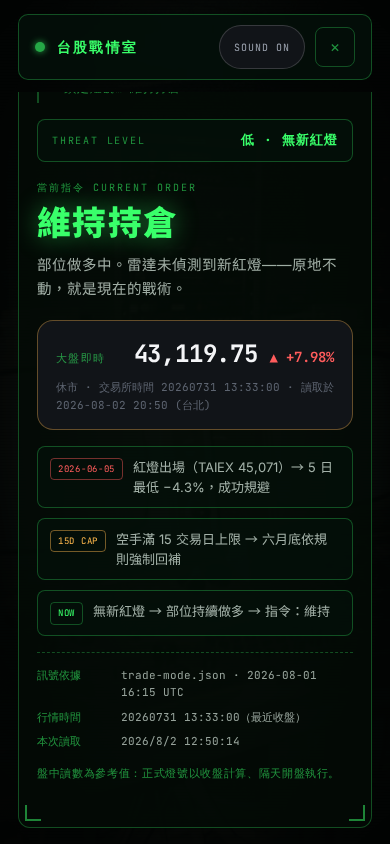
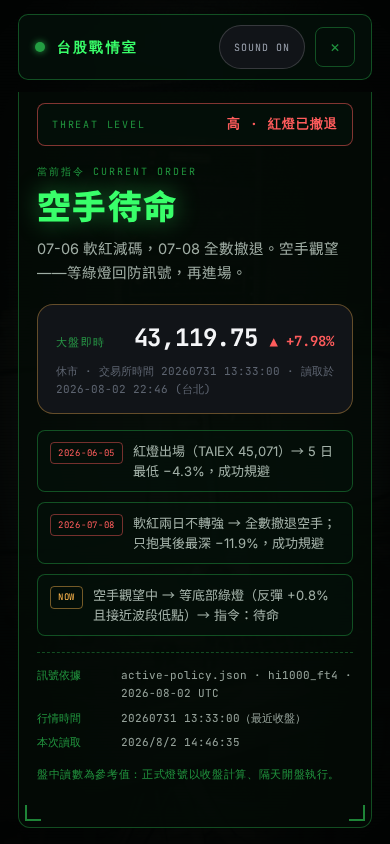
Install champion hi1000_ft4 (OOS +23.6%): new verdict CASH since 2026-07-08
VERIFIED BEFORE INSTALL: ran package's scripts/ship-hi1000-champ.mts from the
champion handoff — reproduced exactly: meanOos 23.57, folds [23.73, 0, 12.16, 58.4],
full +957% vs +351% (ex +605, dd -12.7), post +334% vs +203% (ex +131, dd -8.0).
(Fixed pkg's hardcoded /workspace cache path + stubbed react-start marker to run it.)

Site updates:
- Numbers everywhere: OOS 16.8->23.6, post-2023 excess 78->131 (+281->+334 vs +203),
  2019 excess 544->605 (+895->+957 vs +351), maxDD -12->-13, 2024 pain card -> post-2023
  BH -29, folds [25.6,0,10.1,31.5]->[23.7,0,12.2,58.4], equity chart endpoint 895->957
- VERDICT CHANGED: HOLD POSITION (維持持倉) -> STAND BY IN CASH (空手待命).
  New champion exited: soft red 2026-07-06 (trim to 40%) -> full cash 2026-07-08;
  B&H fell up to -11.9% since. Threat level low->high (red styling added)
- Radar: 9 contacts (added 07-06 amber soft-red + 07-08 red full-retreat; amber blip color)
- Timeline: +2026-07-08 full retreat entry; 2025-02-26 item now describes soft-exit flow
- Intel trail: removed obsolete 15D-cash-cap mechanic (not in hi1000_ft4 policy);
  NOW item = awaiting bottom green (ret1Min 0.8, ret5Max -3.5, minCashDays 3)
- Provenance: trade-mode.json 2026-08-01 -> active-policy.json · hi1000_ft4 · 2026-08-02
- Scan log line 4 -> 空手待命; E2E assertions updated to new order + provenance
- Suite: 191/191 green (98 lint + 42 unit + 16 API + 35 E2E)

diff --git a/src/index.tsx b/src/index.tsx
@@ -14,7 +14,7 @@ const Head = () => (
     <title>台股戰情室 TWSE warroom — 台股波段指令 | TAIEX wave orders</title>
     <meta
       name="description"
-      content="紅燈撤退、綠燈回防，隔天開盤執行。Walk-forward 樣本外 +16.8%，最大回落 −12% vs 只抱 −29%。台股波段戰情室，戰績全公開。"
+      content="紅燈撤退、綠燈回防，隔天開盤執行。Walk-forward 樣本外 +23.6%，最大回落 −13% vs 只抱 −32%。台股波段戰情室，戰績全公開。"
     />
     <meta name="theme-color" content="#08090b" />
     <link
@@ -218,7 +218,7 @@ app.get('/', (c) => {
                     </span>
                   </div>
                   <div class="chart-legend mono">
-                    <span class="lg lg-st"><i />TWSE warroom <b id="legend-st">+895%</b></span>
+                    <span class="lg lg-st"><i />TWSE warroom <b id="legend-st">+957%</b></span>
                     <span class="lg lg-bh"><i /><span class="zh">只抱</span><span class="en">B&amp;H</span> <b id="legend-bh">+351%</b></span>
                   </div>
                 </div>
@@ -237,8 +237,8 @@ app.get('/', (c) => {
                   <span class="marquee-seq">
                     <em class="m-r">RED = EXIT NEXT OPEN</em><i>◆</i>
                     <em class="m-g">GREEN = RE-ENTER NEAR LOWS</em><i>◆</i>
-                    <em>WALK-FORWARD OOS +16.8%</em><i>◆</i>
-                    <em class="m-a">MAX DD −12% vs −29%</em><i>◆</i>
+                    <em>WALK-FORWARD OOS +23.6%</em><i>◆</i>
+                    <em class="m-a">MAX DD −13% vs −32%</em><i>◆</i>
                     <em>INTEL, NOT PROPHECY</em><i>◆</i>
                   </span>
                 ))}
@@ -261,8 +261,8 @@ app.get('/', (c) => {
               <div class="pain-grid">
                 <div class="pain-card reveal d2">
                   <span class="pain-num mono">−29%</span>
-                  <p><span class="zh">2024 年只抱者的最大回落。抱得很緊，跌得很深。</span>
-                     <span class="en">Max drawdown for buy-and-holders in 2024. Held tight, fell hard.</span></p>
+                  <p><span class="zh">2023 之後只抱者的最大回落。抱得很緊，跌得很深。</span>
+                     <span class="en">Max drawdown for buy-and-holders post-2023. Held tight, fell hard.</span></p>
                 </div>
                 <div class="pain-card reveal d3">
                   <span class="pain-num mono">−32%</span>
@@ -270,9 +270,9 @@ app.get('/', (c) => {
                      <span class="en">Max drawdown for buy &amp; hold since 2019. Time is your friend; waves are not.</span></p>
                 </div>
                 <div class="pain-card reveal d4">
-                  <span class="pain-num mono accent-g">−12%</span>
+                  <span class="pain-num mono accent-g">−13%</span>
                   <p><span class="zh">同一期間戰情室策略的最大回落。躲過的跌，就是賺到的。</span>
-                     <span class="en">Max drawdown for the signal strategy over the same period. Dodged drops are earned returns.</span></p>
+                     <span class="en">Max drawdown for the warroom strategy over the same period. Dodged drops are earned returns.</span></p>
                 </div>
               </div>
             </div>
@@ -342,16 +342,16 @@ app.get('/', (c) => {
               {/* big stat row */}
               <div class="stat-row reveal d3">
                 <div class="stat">
-                  <span class="stat-num mono" data-count="16.8" data-suffix="%">0%</span>
+                  <span class="stat-num mono" data-count="23.6" data-suffix="%">0%</span>
                   <span class="stat-label"><span class="zh">樣本外平均超額（出廠門檻）</span><span class="en">Mean out-of-sample excess (ship gate)</span></span>
                 </div>
                 <div class="stat">
-                  <span class="stat-num mono" data-count="78" data-prefix="+" data-suffix="%">0</span>
-                  <span class="stat-label"><span class="zh">2023 後超額（+281% vs +203%）</span><span class="en">Post-2023 excess (+281% vs +203%)</span></span>
+                  <span class="stat-num mono" data-count="131" data-prefix="+" data-suffix="%">0</span>
+                  <span class="stat-label"><span class="zh">2023 後超額（+334% vs +203%）</span><span class="en">Post-2023 excess (+334% vs +203%)</span></span>
                 </div>
                 <div class="stat">
-                  <span class="stat-num mono" data-count="544" data-prefix="+" data-suffix="%">0</span>
-                  <span class="stat-label"><span class="zh">2019 至今超額（+895% vs +351%）</span><span class="en">Since-2019 excess (+895% vs +351%)</span></span>
+                  <span class="stat-num mono" data-count="605" data-prefix="+" data-suffix="%">0</span>
+                  <span class="stat-label"><span class="zh">2019 至今超額（+957% vs +351%）</span><span class="en">Since-2019 excess (+957% vs +351%)</span></span>
                 </div>
                 <div class="stat">
                   <span class="stat-num mono" data-count="100" data-suffix="%">0</span>
@@ -363,10 +363,10 @@ app.get('/', (c) => {
               <div class="folds reveal d4">
                 <p class="folds-title mono"><span class="zh">逐年樣本外超額（%）</span><span class="en">Out-of-sample excess by fold (%)</span></p>
                 <div class="fold-bars">
-                  <div class="fold"><span class="fold-val mono">+25.6</span><div class="fold-bar"><i style="--h:81%" /></div><span class="fold-yr mono">2022</span></div>
+                  <div class="fold"><span class="fold-val mono">+23.7</span><div class="fold-bar"><i style="--h:41%" /></div><span class="fold-yr mono">2022</span></div>
                   <div class="fold"><span class="fold-val mono">0.0</span><div class="fold-bar"><i class="flat" style="--h:3%" /></div><span class="fold-yr mono">2023</span></div>
-                  <div class="fold"><span class="fold-val mono">+10.1</span><div class="fold-bar"><i style="--h:32%" /></div><span class="fold-yr mono">2024</span></div>
-                  <div class="fold"><span class="fold-val mono">+31.5</span><div class="fold-bar"><i style="--h:100%" /></div><span class="fold-yr mono">2025+</span></div>
+                  <div class="fold"><span class="fold-val mono">+12.2</span><div class="fold-bar"><i style="--h:21%" /></div><span class="fold-yr mono">2024</span></div>
+                  <div class="fold"><span class="fold-val mono">+58.4</span><div class="fold-bar"><i style="--h:100%" /></div><span class="fold-yr mono">2025+</span></div>
                 </div>
                 <p class="fineprint mono">
                   <span class="zh">2023 打平只抱——我們把它留在榜上，因為誠實比好看重要。</span>
@@ -391,7 +391,7 @@ app.get('/', (c) => {
                   <li class="tl-item tl-r">
                     <span class="tl-date mono">2025-02-26</span>
                     <span class="tl-kind"><i class="dot dot-r" /><span class="zh">紅燈 · 出場</span><span class="en">RED · exit</span></span>
-                    <span class="tl-out"><span class="zh">之後 10 日 </span><span class="en">Next 10d </span><b class="neg">−6.2%</b> <span class="zh">· 躲過</span><span class="en">· dodged</span></span>
+                    <span class="tl-out"><span class="zh">軟紅減碼 → 03-04 全退；之後 10 日 </span><span class="en">Soft red trim → full exit 03-04; next 10d </span><b class="neg">−6.2%</b> <span class="zh">· 躲過</span><span class="en">· dodged</span></span>
                   </li>
                   <li class="tl-item tl-g">
                     <span class="tl-date mono">2025-04-10</span>
@@ -412,6 +412,11 @@ app.get('/', (c) => {
                     <span class="tl-date mono">2026-06-05</span>
                     <span class="tl-kind"><i class="dot dot-r" /><span class="zh">紅燈 · 出場</span><span class="en">RED · exit</span></span>
                     <span class="tl-out"><span class="zh">之後 5 日最低 </span><span class="en">Next 5d low </span><b class="neg">−4.3%</b> <span class="zh">· 躲過</span><span class="en">· dodged</span></span>
+                  </li>
+                  <li class="tl-item tl-r">
+                    <span class="tl-date mono">2026-07-08</span>
+                    <span class="tl-kind"><i class="dot dot-r" /><span class="zh">紅燈 · 全數撤退</span><span class="en">RED · full retreat</span></span>
+                    <span class="tl-out"><span class="zh">07-06 軟紅減碼 → 07-08 空手；只抱其後最深 </span><span class="en">Soft red 07-06 → cash 07-08; B&amp;H max drop since </span><b class="neg">−11.9%</b></span>
                   </li>
                 </ol>
               </div>
@@ -570,21 +575,21 @@ app.get('/', (c) => {
 
                 {/* verdict — id kept as desk-result so quote/provenance plumbing stays intact */}
                 <div class="wr-verdict" id="desk-result" hidden>
-                  <div class="wr-threat mono" id="wr-threat" data-level="low">
+                  <div class="wr-threat mono" id="wr-threat" data-level="high">
                     <span class="wr-threat-k">THREAT LEVEL</span>
                     <span class="wr-threat-v" id="wr-threat-v">
-                      <span class="zh">低 · 無新紅燈</span><span class="en">LOW · no new red</span>
+                      <span class="zh">高 · 紅燈已撤退</span><span class="en">HIGH · red exit done</span>
                     </span>
                   </div>
                   <p class="wr-order-sub mono">
                     <span class="zh">當前指令 CURRENT ORDER</span><span class="en">CURRENT ORDER</span>
                   </p>
                   <p class="wr-order">
-                    <span class="zh">維持持倉</span><span class="en">HOLD POSITION</span>
+                    <span class="zh">空手待命</span><span class="en">STAND BY IN CASH</span>
                   </p>
                   <p class="wr-order-detail">
-                    <span class="zh">部位做多中。雷達未偵測到新紅燈——原地不動，就是現在的戰術。</span>
-                    <span class="en">Position LONG. No new red contact on scope — holding position is the maneuver.</span>
+                    <span class="zh">07-06 軟紅減碼，07-08 全數撤退。空手觀望——等綠燈回防訊號，再進場。</span>
+                    <span class="en">Soft red trimmed on 07-06, full retreat to cash on 07-08. Standing by — next green re-entry signal brings us back in.</span>
                   </p>
 
                   {/* live quote strip — filled by JS from /api/market-now */}
@@ -609,17 +614,17 @@ app.get('/', (c) => {
                       </span>
                     </li>
                     <li>
-                      <span class="mono wr-intel-tag tag-amber">15D CAP</span>
+                      <span class="mono wr-intel-tag tag-red">2026-07-08</span>
                       <span class="wr-intel-txt">
-                        <span class="zh">空手滿 15 交易日上限 → 六月底依規則強制回補</span>
-                        <span class="en">15-trading-day cash cap hit → mandatory re-entry ~late June</span>
+                        <span class="zh">軟紅兩日不轉強 → 全數撤退空手；只抱其後最深 −11.9%，成功規避</span>
+                        <span class="en">Soft red stayed weak 2 sessions → full retreat to cash; B&amp;H fell up to −11.9% since, dodged</span>
                       </span>
                     </li>
                     <li>
-                      <span class="mono wr-intel-tag tag-green">NOW</span>
+                      <span class="mono wr-intel-tag tag-amber">NOW</span>
                       <span class="wr-intel-txt">
-                        <span class="zh">無新紅燈 → 部位持續做多 → 指令：維持</span>
-                        <span class="en">No new red → still long → order: HOLD</span>
+                        <span class="zh">空手觀望中 → 等底部綠燈（反彈 +0.8% 且接近波段低點）→ 指令：待命</span>
+                        <span class="en">In cash, scope sweeping → awaiting bottom green (+0.8% bounce near swing low) → order: STAND BY</span>
                       </span>
                     </li>
                   </ul>
@@ -628,7 +633,7 @@ app.get('/', (c) => {
                   <div class="desk-stamps mono">
                     <div class="ds-row">
                       <span class="ds-k"><span class="zh">訊號依據</span><span class="en">Signal basis</span></span>
-                      <span class="ds-v" id="ds-policy">trade-mode.json · 2026-08-01 16:15 UTC</span>
+                      <span class="ds-v" id="ds-policy">active-policy.json · hi1000_ft4 · 2026-08-02 UTC</span>
                     </div>
                     <div class="ds-row">
                       <span class="ds-k"><span class="zh">行情時間</span><span class="en">Quote as of</span></span>

diff --git a/public/static/warroom.js b/public/static/warroom.js
@@ -27,6 +27,8 @@
   var verdictEl = document.getElementById("desk-result");
 
   /* Real signal events → radar contacts (from data/champion-signal-dates.json, post-2023) */
+  /* New champion hi1000_ft4: same signal dates + July 2026 retreat pair.
+     07-06 soft red (size→0.4) plotted amber; 07-08 full retreat plotted red. */
   var EVENTS = [
     { date: "2024-07-18", kind: "red" },
     { date: "2024-09-06", kind: "green" },
@@ -35,6 +37,8 @@
     { date: "2026-03-04", kind: "red" },
     { date: "2026-03-10", kind: "green" },
     { date: "2026-06-05", kind: "red" },
+    { date: "2026-07-06", kind: "amber" },
+    { date: "2026-07-08", kind: "red" },
   ];
 
   var SWEEP_MS = 9000;          // idle sweep period
@@ -161,7 +165,7 @@
       if (inten <= 0.01) return;
       lit++;
       var p = R.polarToCartesian(cx, cy, radius * c.radius, c.bearing);
-      var col = c.kind === "red" ? "255,92,92" : "57,255,106";
+      var col = c.kind === "red" ? "255,92,92" : c.kind === "amber" ? "255,184,77" : "57,255,106";
       var sz = 3 + inten * 2.5;
       ctx.fillStyle = "rgba(" + col + "," + (0.25 + inten * 0.75).toFixed(3) + ")";
       ctx.beginPath(); ctx.arc(p.x, p.y, sz, 0, R.TAU); ctx.fill();
@@ -218,7 +222,7 @@
     { zh: "▸ 建立台股資料鏈路… OK", en: "▸ UPLINK TAIEX FEED… OK" },
     { zh: "▸ 運算壓力分數… 完成", en: "▸ PRESSURE SCORE… COMPUTED" },
     { zh: "▸ 比對波段低點閘門… 通過", en: "▸ SWING-LOW GATES… PASS" },
-    { zh: "▸ 鎖定燈號… 維持持倉", en: "▸ SIGNAL LOCK… HOLD POSITION" },
+    { zh: "▸ 鎖定燈號… 空手待命", en: "▸ SIGNAL LOCK… STAND BY IN CASH" },
   ];
 
   function clearTimers() { timers.forEach(clearTimeout); timers = []; }

diff --git a/public/static/landing.js b/public/static/landing.js
@@ -138,7 +138,7 @@
 
       // synthetic but shape-honest paths:
       // B&H: 0% -> +351%, dips to -32% dd zone mid-way
-      // Strategy: 0% -> +895%, shallow dips (max -13%), steps aside at corrections
+      // Strategy: 0% -> +957%, shallow dips (max -13%), steps aside at corrections
       var N = 220;
       function bhPath(i) {
         var t = i / N;
@@ -150,7 +150,7 @@
       }
       function stPath(i) {
         var t = i / N;
-        var base = 895 * Math.pow(t, 0.94);
+        var base = 957 * Math.pow(t, 0.94);
         var wave = Math.sin(t * 9.2) * 12 * (1 - t * 0.4) + Math.sin(t * 21) * 5;
         var dodge = -Math.exp(-Math.pow((t - 0.62) / 0.09, 2)) * 22;   // shallow dip where BH crashed
         var dodge2 = -Math.exp(-Math.pow((t - 0.3) / 0.07, 2)) * 14;

diff --git a/public/static/landing.css b/public/static/landing.css
@@ -635,6 +635,8 @@ body.desk-locked { overflow: hidden; }
 .wr-threat-v { font-size: 13px; font-weight: 700; color: var(--mil); letter-spacing: 0.08em; margin-left: auto; }
 .wr-threat[data-level="low"] { border-color: var(--mil-line); }
 .wr-threat[data-level="low"] .wr-threat-v { color: var(--mil); }
+.wr-threat[data-level="high"] { border-color: rgba(255, 92, 92, 0.5); }
+.wr-threat[data-level="high"] .wr-threat-v { color: var(--mil-red); }
 
 .wr-order-sub { font-size: 10px; letter-spacing: 0.2em; color: var(--mil-dim); margin-bottom: 8px; }
 .wr-order {

diff --git a/README.md b/README.md
@@ -20,15 +20,16 @@
   - Static: `/static/landing.js`, `/static/radar-core.js`, `/static/warroom.js`, `/static/landing.css`, `/static/img/warroom-bg.jpg`
 
 ## Data Architecture
-- **Signal basis**: `trade-mode.json` champion policy (short_term, maxCashDays 15, holdMinDays 3, updatedAt 2026-08-01T16:15:00Z) — shown as provenance stamp on every verdict
-- **Signal events** (radar contacts): 7 post-2023 champion events from `champion-signal-dates.json`, latest = 2026-06-05 EXIT_FULL (TAIEX 45,071); current order = HOLD POSITION (long since mandatory re-entry ~late June 2026)
+- **Signal basis**: `active-policy.json` champion `hi1000_ft4` (walk-forward OOS mean excess **+23.6%**, folds [23.7, 0, 12.2, 58.4], 15bps cost, next-open fills, promoted 2026-08-02) — shown as provenance stamp on every verdict. Verified reproducible via `scripts/ship-hi1000-champ.mts` from the champion handoff package.
+- **Signal events** (radar contacts): 9 events — 7 post-2023 from `champion-signal-dates.json` plus the 2026-07 retreat pair: 07-06 soft red (trim to 40%, amber contact) → 07-08 full retreat to CASH; buy & hold fell up to −11.9% since. Current order = **STAND BY IN CASH (空手待命)**, awaiting bottom green re-entry (ret1Min 0.8, ret5Max −3.5, minCashDays 3)
+- **Champion card**: post-2023 +334% vs +203% (excess +131%, maxDD −8% vs −29%) · full 2019→ +957% vs +351% (excess +605%, maxDD −13% vs −32%)
 - **Live quotes**: TWSE mis API (`mis.twse.com.tw/stock/api/getStockInfo.jsp`), 25s edge cache, weekend/stale guards (`isRealtime=false` off-session)
 - **Storage**: none (stateless); sound/language prefs in localStorage (`xd-sound`, `xd-lang`)
 
 ## War Room Design
 - **Radar**: canvas PPI scope — range rings, bearing ticks (0°=north), phosphor sweep trail (26 fading wedges), contact blips that flash as the beam passes and decay over 300°, idle sweep 9s / combat sweep 1.6s
 - **Pure math core**: `radar-core.js` (polarToCartesian, sweepAngle, cwDelta, blipIntensity, phosphorDecay, trailAlpha, contactsFromEvents) — shared by browser, `/__test__`, and node unit tests
-- **Verdict**: intel brief with THREAT LEVEL, CURRENT ORDER (維持持倉 / HOLD POSITION), live quote strip, 3-item intel trail, provenance stamps
+- **Verdict**: intel brief with THREAT LEVEL (high · red exit done), CURRENT ORDER (空手待命 / STAND BY IN CASH), live quote strip, 3-item intel trail, provenance stamps
 - **Art**: AI-generated photorealistic 1980s radar-ops-room backdrop, passed automated realism gate (analyze_media_content, first candidate rejected for "AI smoothness", regenerated with film-grain prompt → accepted)
 
 ## Tests
